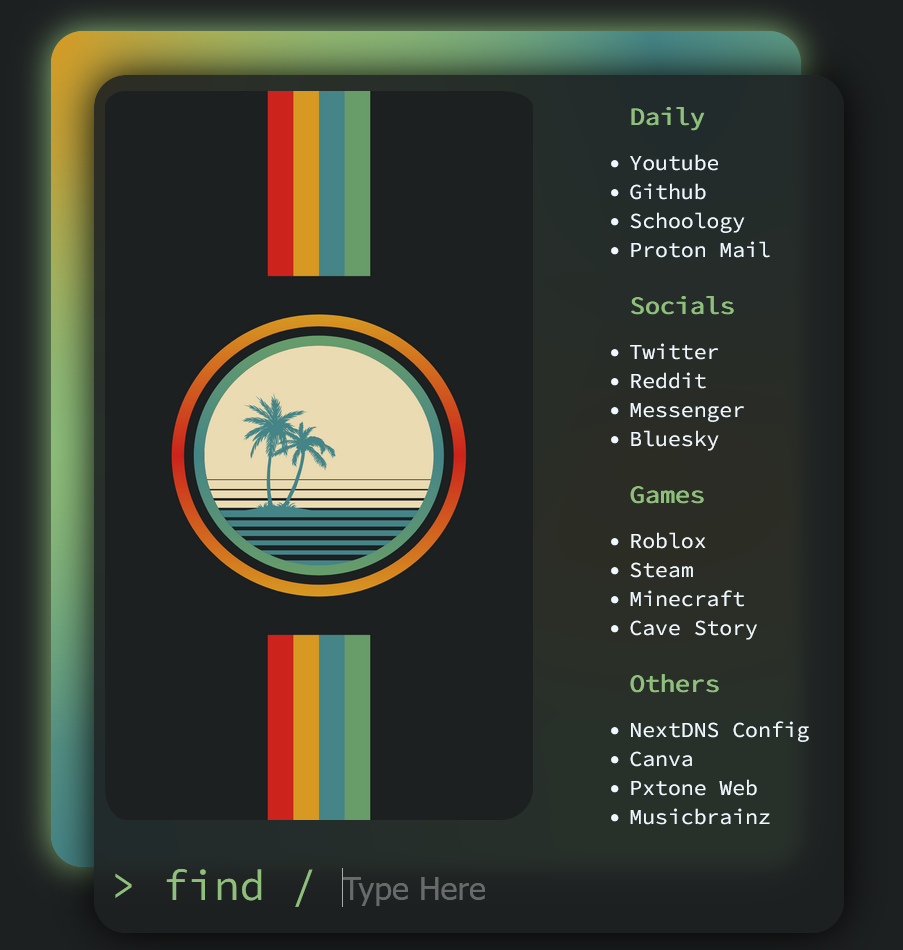
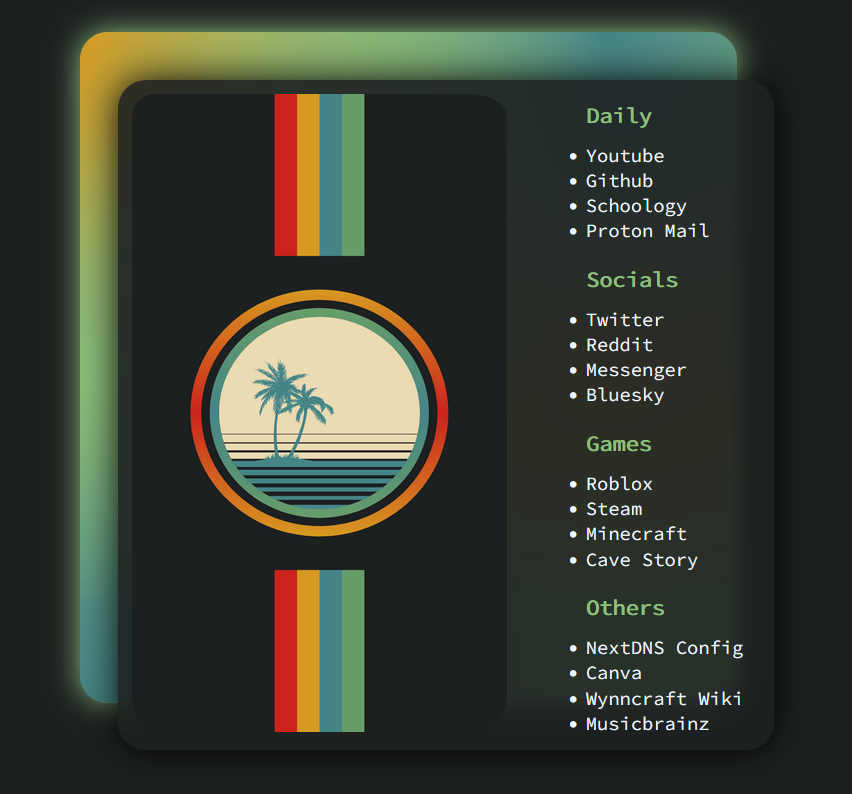
remove built-in search box
update stylings and preview image to account for that

Changed region(s): [[0.0305, 0.0, 0.9155, 0.9673], [0.6714, 0.7557, 0.9155, 0.937]]

diff --git a/index.html b/index.html
@@ -60,41 +60,7 @@
             </section>
           </div>
         </div>
-        <div class="search">
-          <form onsubmit="return search()">
-            <label for="search_box" autofocus>> find / </label>
-            <input
-              type="text"
-              placeholder="Type Here"
-              name="search_box"
-              id="search_box"
-              autocomplete="off"
-              autofocus
-            />
-          </form>
-        </div>
       </div>
     </div>
   </body>
-  <script>
-    const search_url = "https://search.brave.com/search?q=";
-
-    function search() {
-      const is_url = /^(((http)|(https)):\/\/)?(www\.)?[a-zA-Z0-9]+\.[a-zA-Z]+\/?([a-zA-Z0-9/?=&%-_]+)?$/;
-      const is_ip = /^(((http)|(https)):\/\/)?([0-9]{1,3}.[0-9]{1,3}.[0-9]{1,3}.[0-9]{1,3}|localhost)(:[0-9]{1,5})?(\/[a-zA-Z0-9/?=&%-_]+)?$/;
-
-      const search_term = document.getElementById("search_box").value;
-      const url_match = search_term.match(is_url);
-      const ip_match = search_term.match(is_ip);
-      if (url_match != null) {
-        window.location.href = url_match[0].substring(0, 4) == "http" ? url_match[0] : "https://" + url_match[0];
-      } else if (ip_match != null) {
-        window.location.href = ip_match[0].substring(0, 4) == "http" ? ip_match[0] : "http://" + ip_match[0];
-      } else {
-        window.location.href = search_url + encodeURIComponent(search_term);
-      }
-
-      return false;
-    }
-  </script>
 </html>

diff --git a/style.css b/style.css
@@ -36,7 +36,7 @@ body {
   flex-direction: column;
   background-color: rgba(29, 32, 33, .902);
   margin-top: 10%;
-  height: 800px;
+  height: 715px;
   width: 700px;
   backdrop-filter: blur(7px);
   box-shadow: 0px 0px 40px rgb(0, 0, 0);
@@ -55,10 +55,10 @@ img {
   max-height: 680px;
   max-width: 400px;
   height: 680px;
-  padding-left: 10px;
+  padding-left: 15px;
   width: 400px;
   padding-top: 15px;
-  border-radius: 30px;
+  border-radius: 40px;
 }
 section {
   display: flex;
@@ -129,7 +129,7 @@ form input:focus {
   margin-left: 1rem;
 }
 .bg {
-  height: 780px;
+  height: 715px;
   position: fixed;
   width: 700px;
   margin-left: -5rem;
